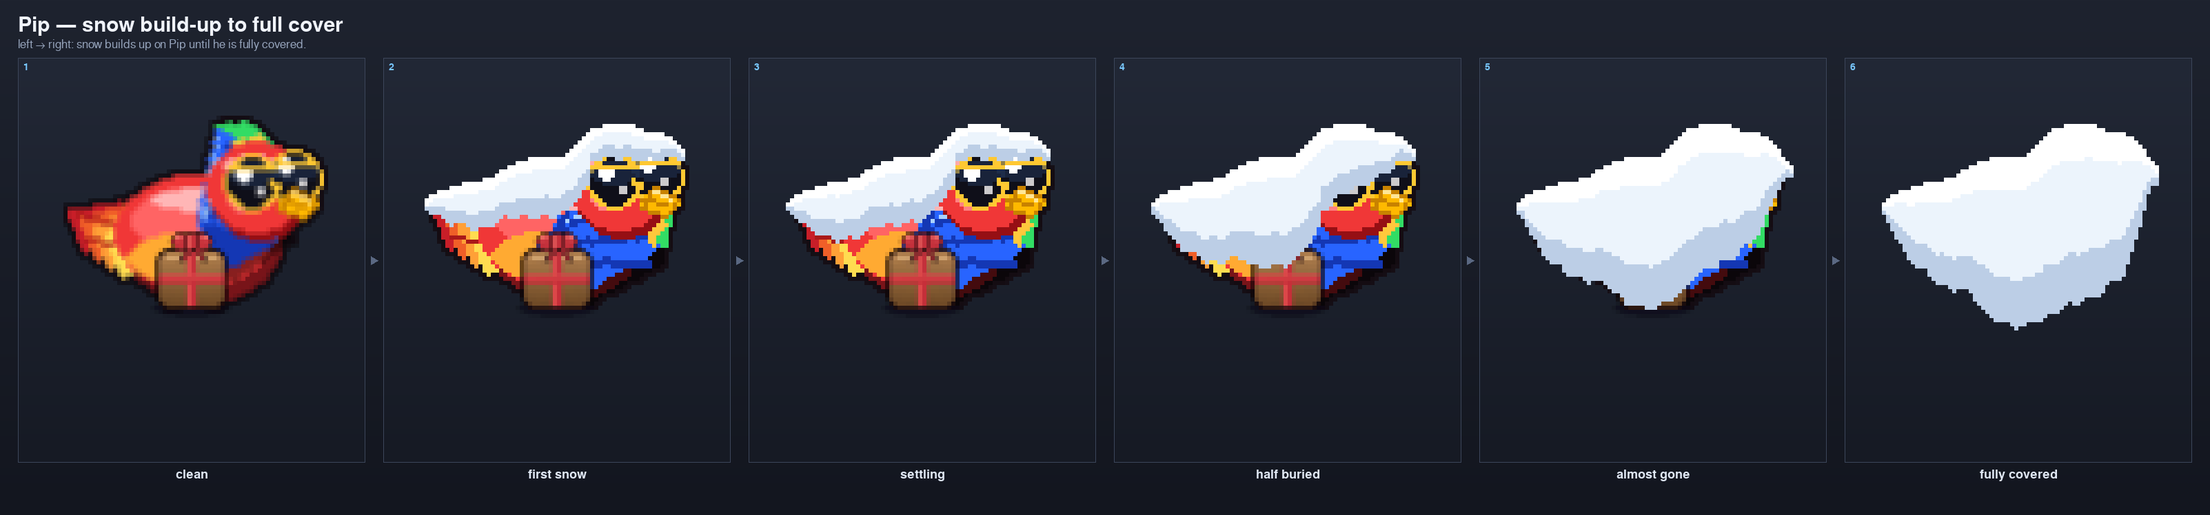
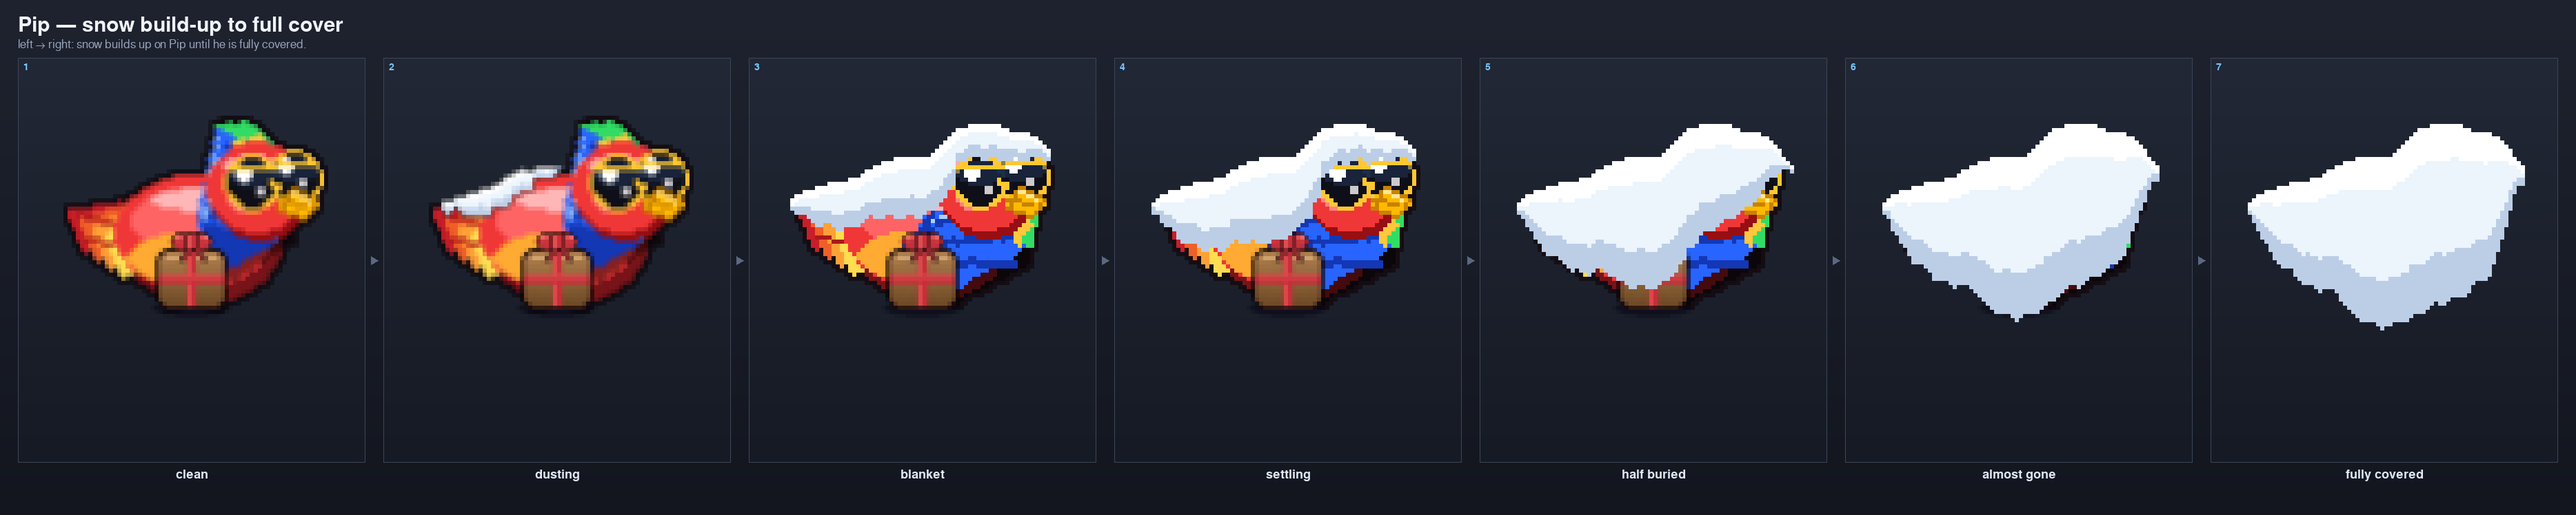
Snow progression figure: add light dusting frame + re-space steps
Add a genuine light-dusting step between clean and the first blanket, and
weight the mound steps toward the high end where the visible change happens,
so each of the 7 frames reads as a distinct stage.

diff --git a/tools/render_snow_progression.py b/tools/render_snow_progression.py
@@ -20,14 +20,17 @@ import tools.render_snow_fullcover as T
 
 OUT = os.path.join(T.ROOT, "docs", "snow_full_cover", "progression.png")
 
-# (builder, arg, caption). One continuous ramp: a clean bird, then the SAME W2
-# snow mound deepening monotonically (no face) until Pip is fully buried.
+# (builder, arg, caption). One monotonic ramp, no face. A clean bird, a light
+# shipped dusting, then the SAME W2 snow mound deepening until Pip is buried.
+# Mound steps are weighted toward the high end where most of the visible change
+# happens (the face/body only disappear past ~0.5), so each step reads distinct.
 STEPS = [
     (T.render_reference, 0.00, "clean"),
-    (T.render_cell, 0.12, "first snow"),
-    (T.render_cell, 0.38, "settling"),
-    (T.render_cell, 0.62, "half buried"),
-    (T.render_cell, 0.82, "almost gone"),
+    (T.render_reference, 0.30, "dusting"),
+    (T.render_cell, 0.15, "blanket"),
+    (T.render_cell, 0.50, "settling"),
+    (T.render_cell, 0.72, "half buried"),
+    (T.render_cell, 0.88, "almost gone"),
     (T.render_cell, 1.00, "fully covered"),
 ]
 
